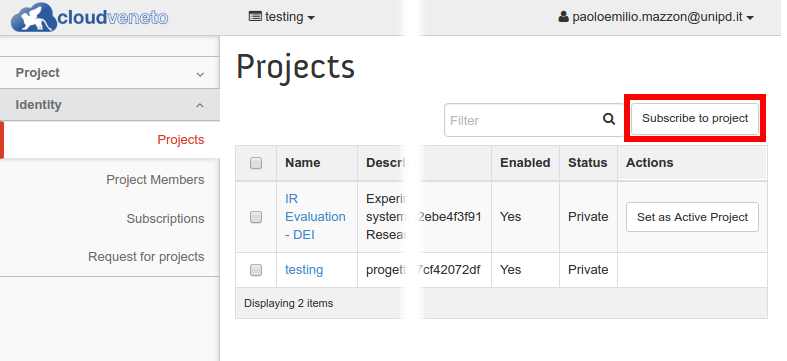
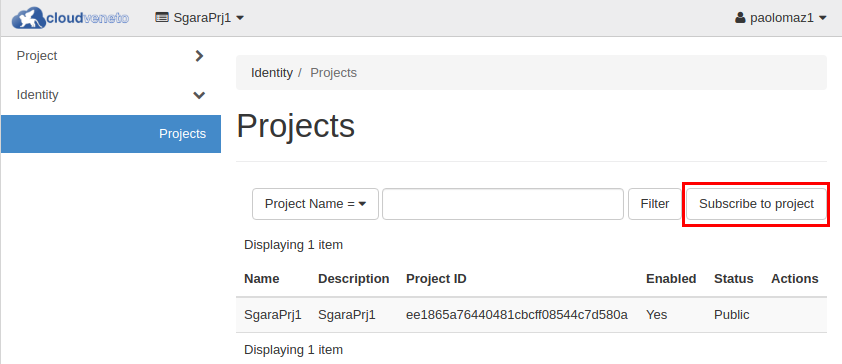
Figure for new project request was wrong. Fix some syntax errors

diff --git a/source/conf.py b/source/conf.py
@@ -54,9 +54,9 @@ copyright = u'2019, CloudVeneto support team'
 # built documents.
 #
 # The short X.Y version.
-version = '3.0'
+version = '3.4'
 # The full version, including alpha/beta/rc tags.
-release = '3.3'
+release = '3.4'
 
 # The language for content autogenerated by Sphinx. Refer to documentation
 # for a list of supported languages.

diff --git a/source/K8sCluster.rst b/source/K8sCluster.rst
@@ -255,7 +255,7 @@ popular Big Data Analytics and Streaming platforms Apache
 the roles spark and kafka in the file deploy\_k8s.yaml).
 
 Launching the Spark application spark-pi
-^^^^^^^^^^^^^^^^^^^^^^^^^^^^^^^^^^^^
+^^^^^^^^^^^^^^^^^^^^^^^^^^^^^^^^^^^^^^^^
 
 You can use the Spark application spark-pi to verify that the cluster
 works properly. Just take the examples/spark-pi.yaml file and execute
@@ -294,7 +294,7 @@ the following kubectl commands:
         # kubectl api-versions
 
 Creating a Kafka cluster with a topic
-^^^^^^^^^^^^^^^^^^^^^^^^^^^^^^^^^^^
+^^^^^^^^^^^^^^^^^^^^^^^^^^^^^^^^^^^^^
 
 Declare the cluster structure as in the kcluster.yaml file taken from the examples directory, and execute the following kubectl command: 
 ::
